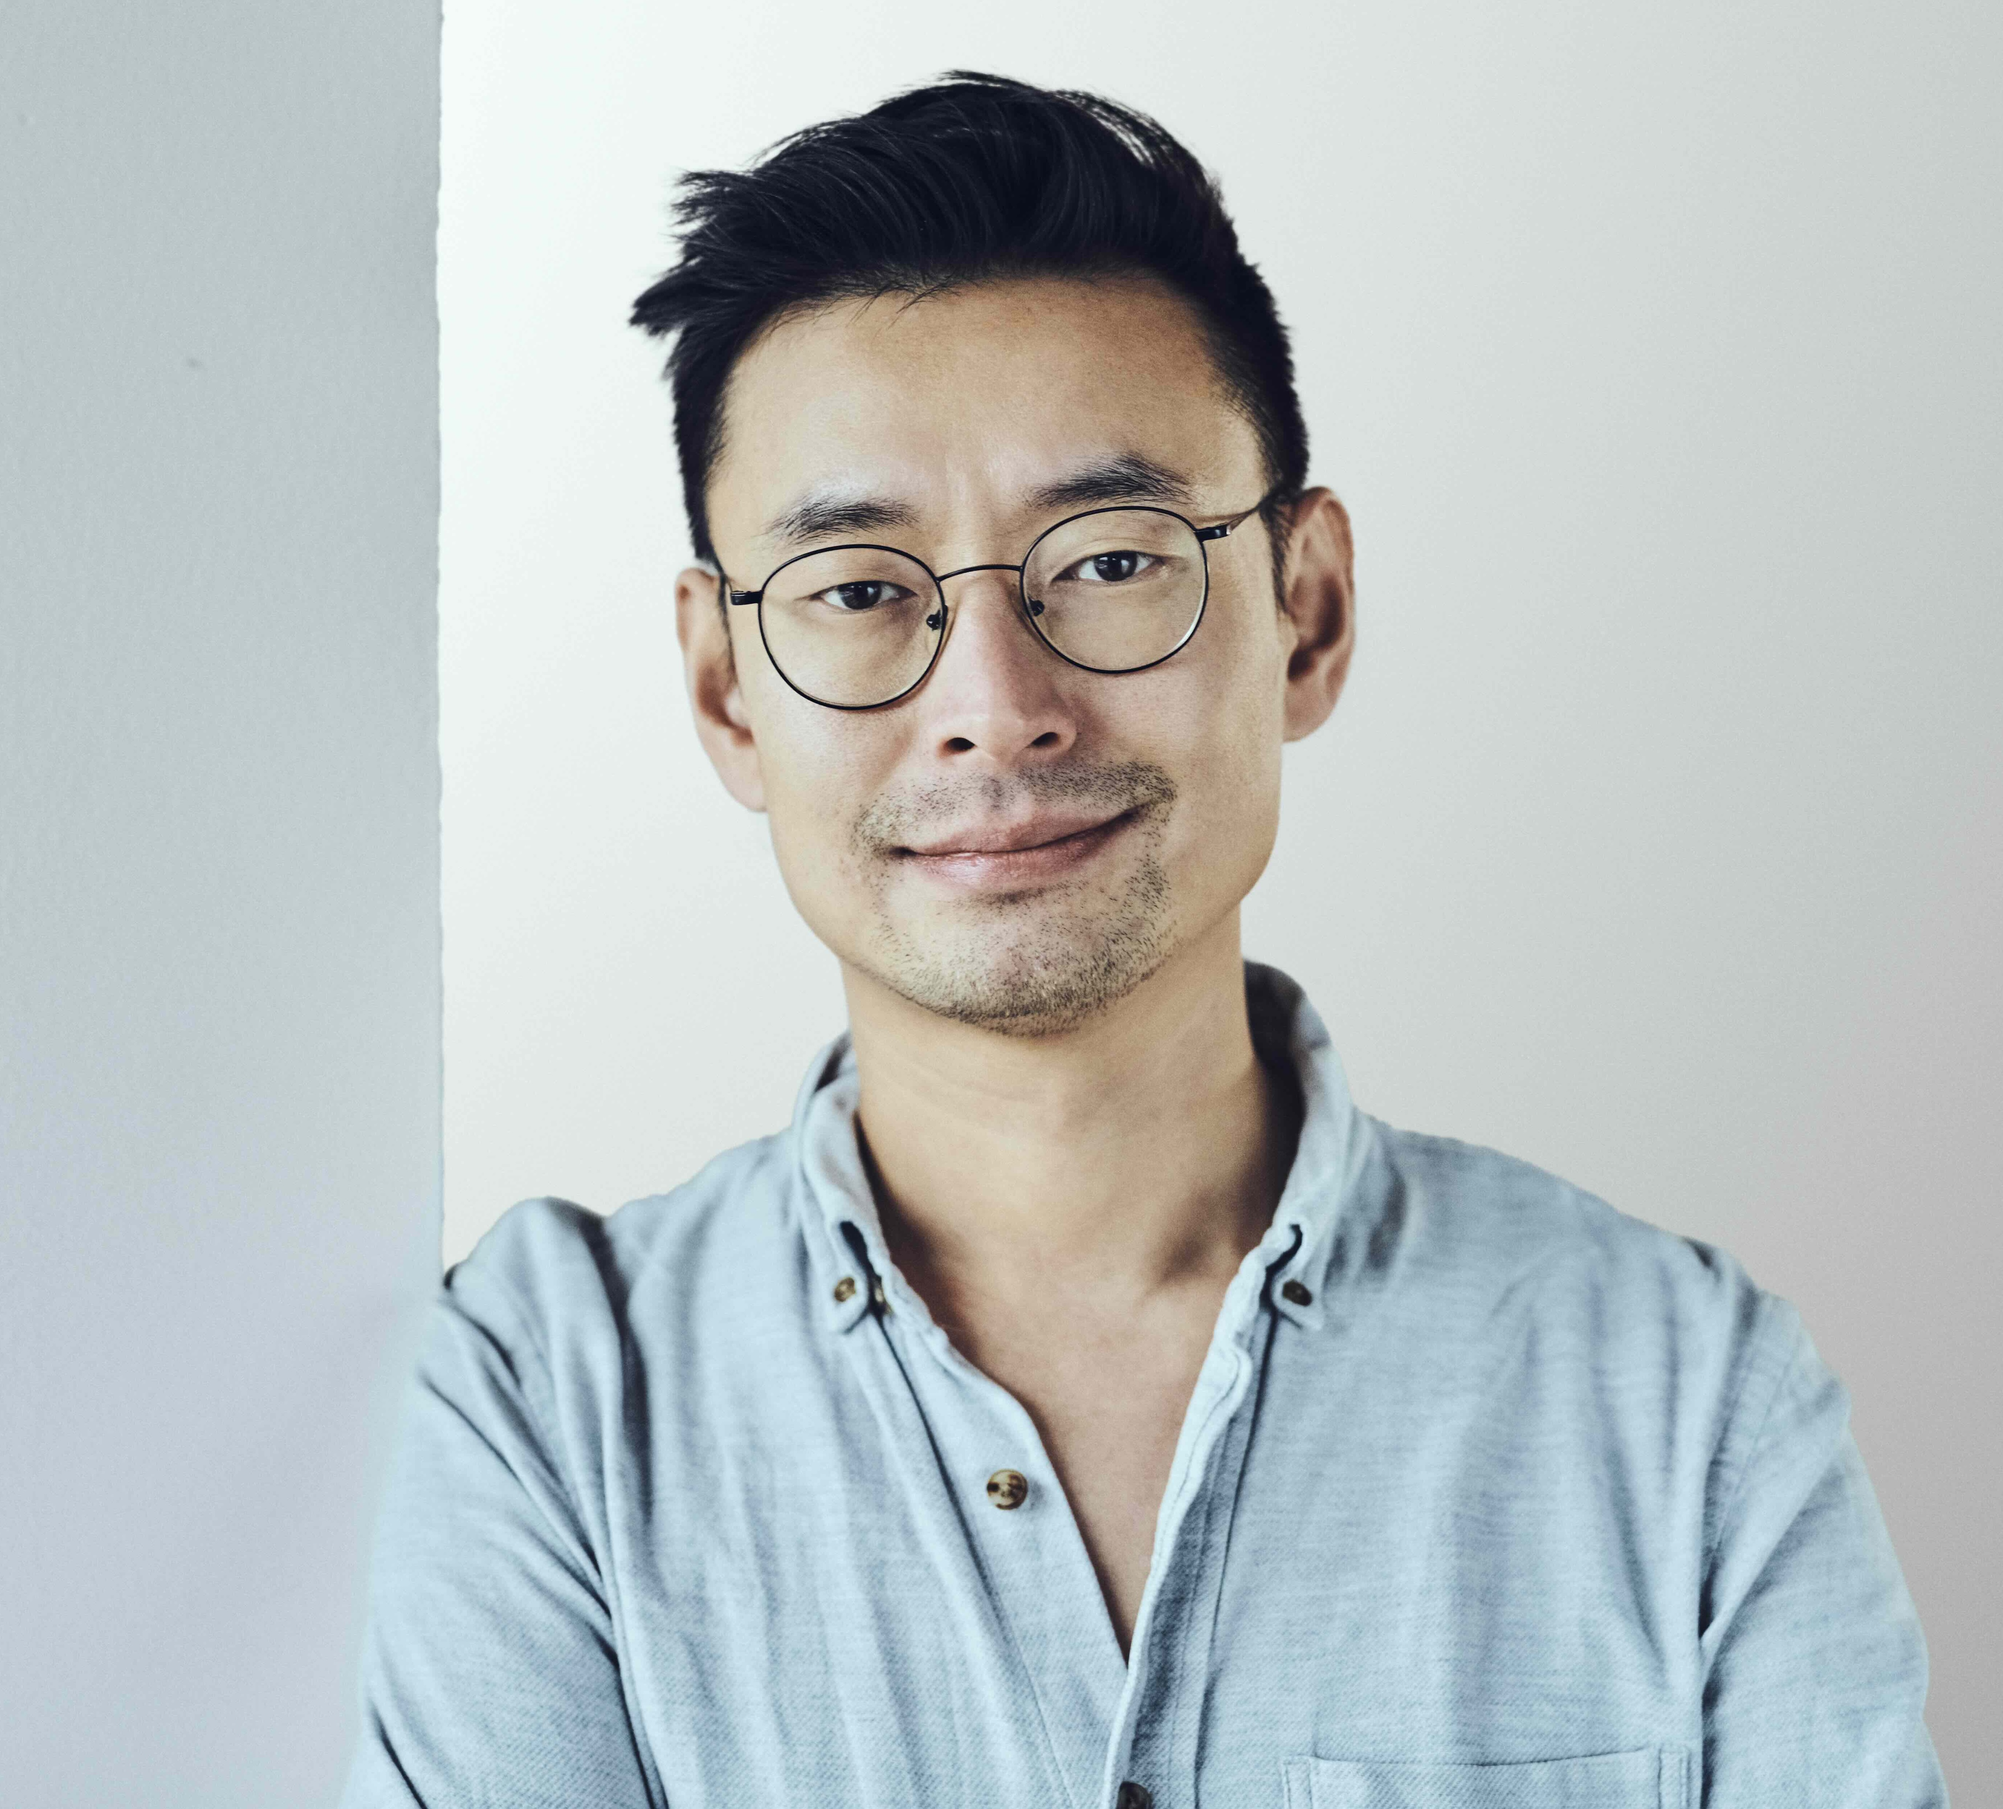
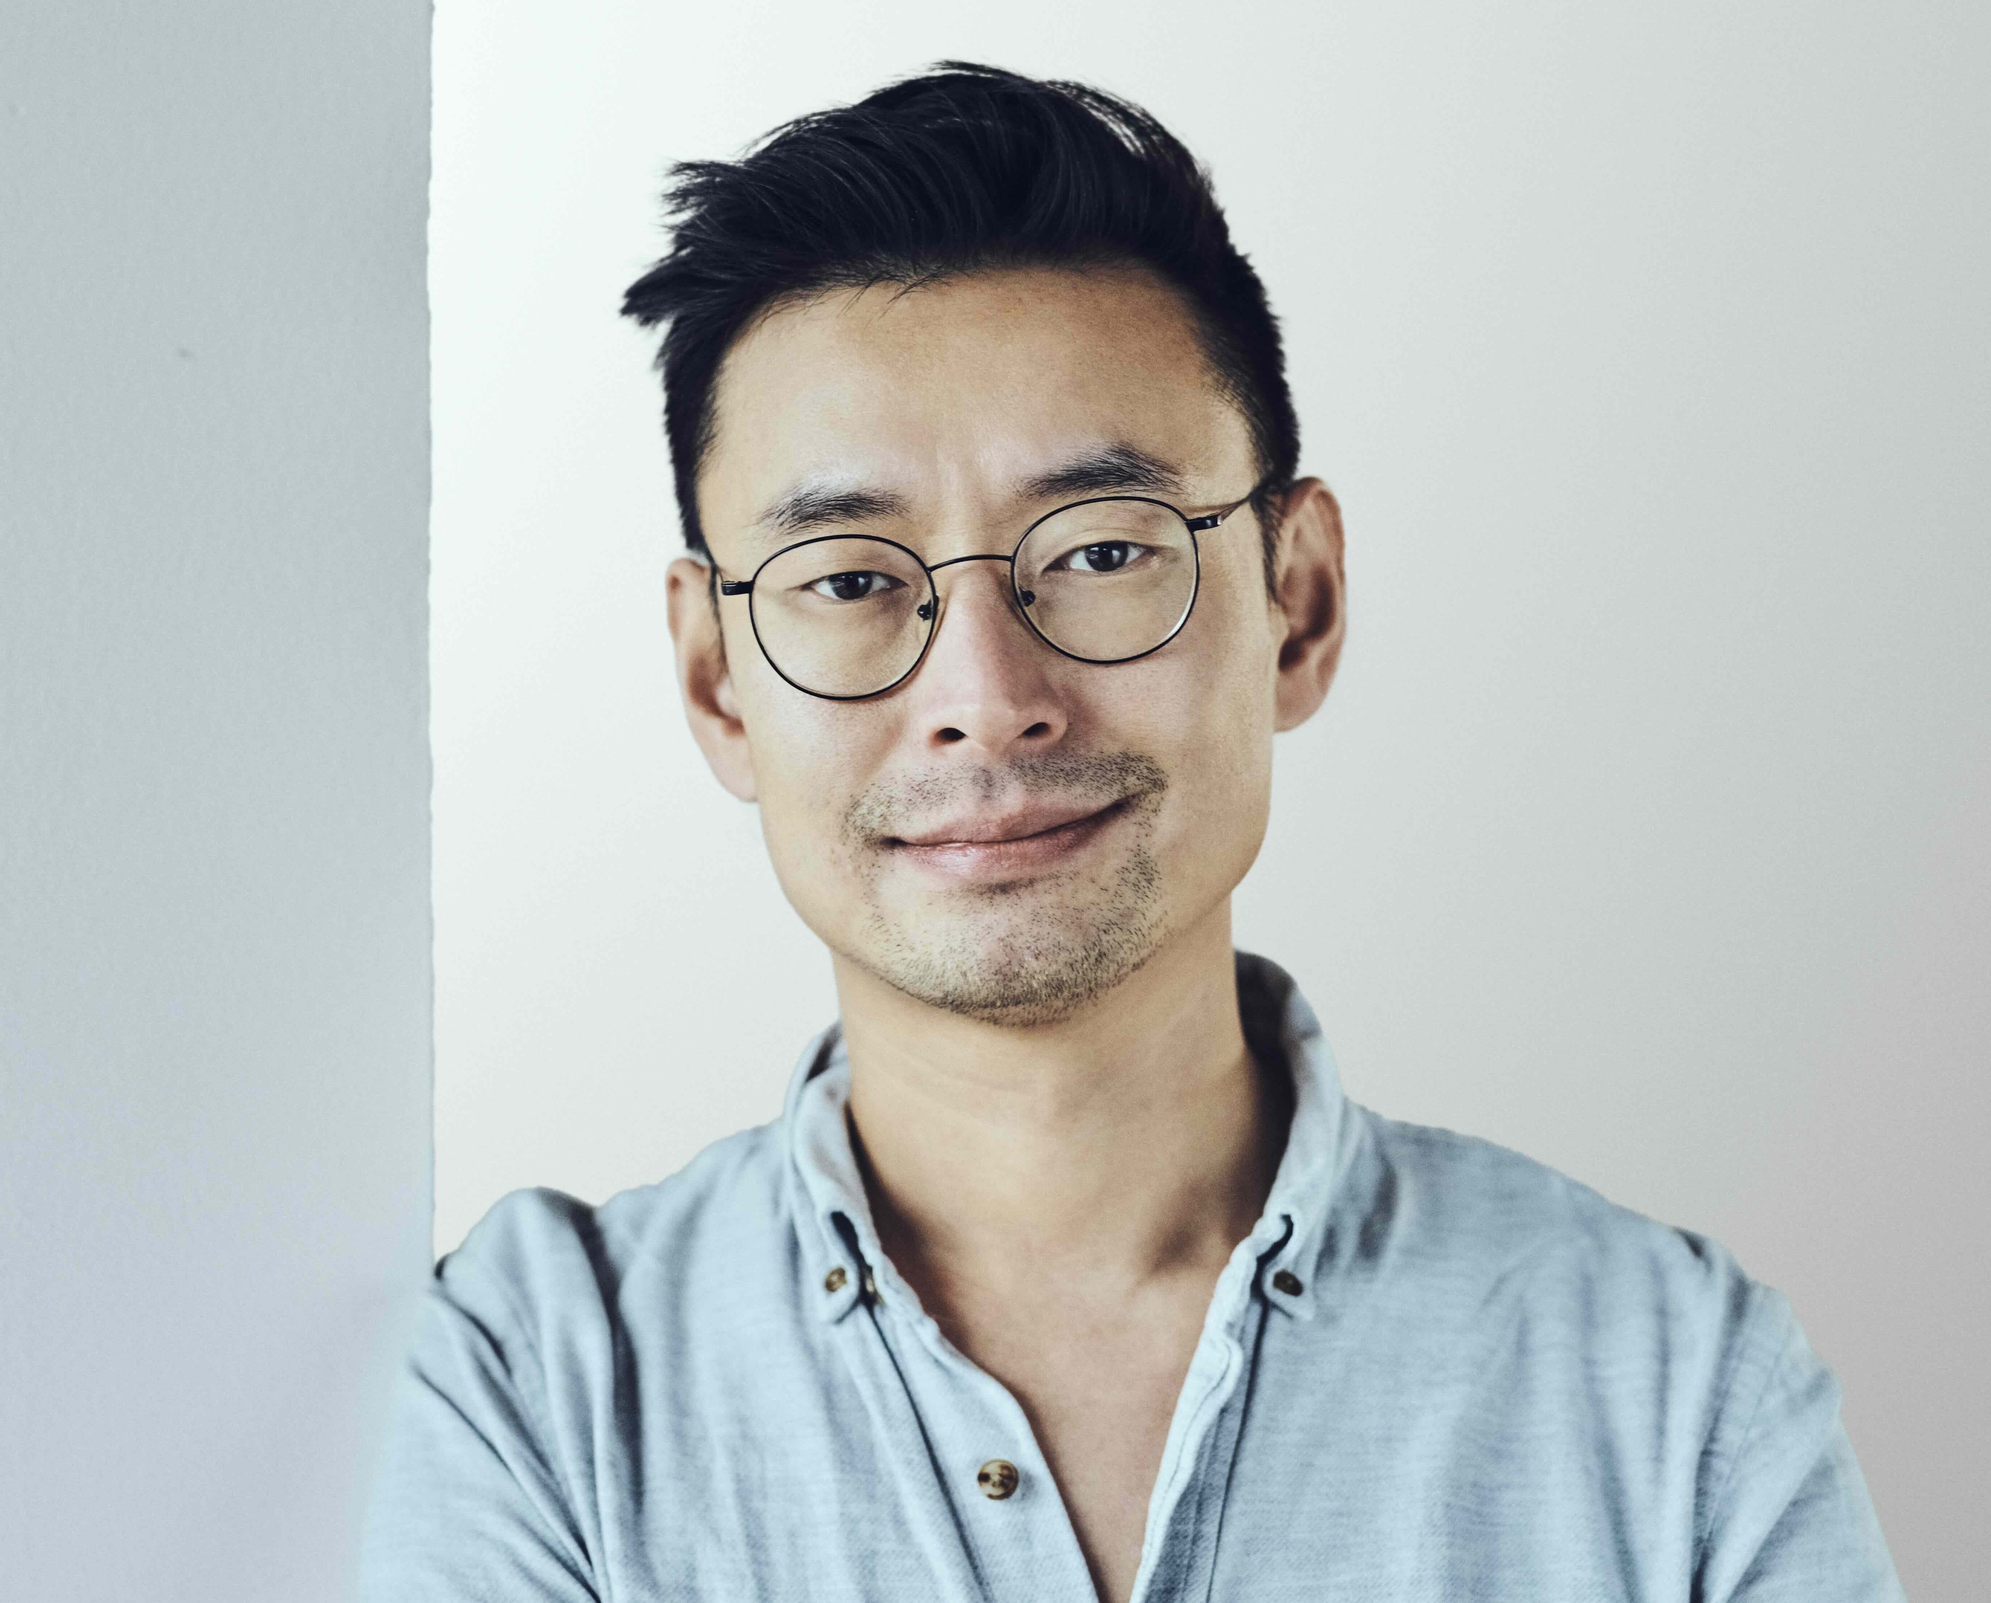
added henri

diff --git a/_instructors/henri.md b/_instructors/henri.md
@@ -1,0 +1,8 @@
+---
+name: Henri Vandendriessche 
+role: Teaching Assistant
+email: henri.vandendriessche[at]riken[dot]jp
+website: https://henrivdd.github.io/
+photo: henri.jpeg
+---
+Henri Vandendriessche is a post-doctoral researcher at the RIKEN’s Center for Brain Science, in the Computational Group Dynamics (COGNAC) Collaboration Unit. His research lies at the crossroads of affective value-based decision-making, computational psychiatry, and now collective behavior. Using reinforcement learning models applied to humans, he studies decision-making and its biases. He tries to shed light on inter-individual differences and group dynamics in social contexts and more specifically in consensus decision-making.
